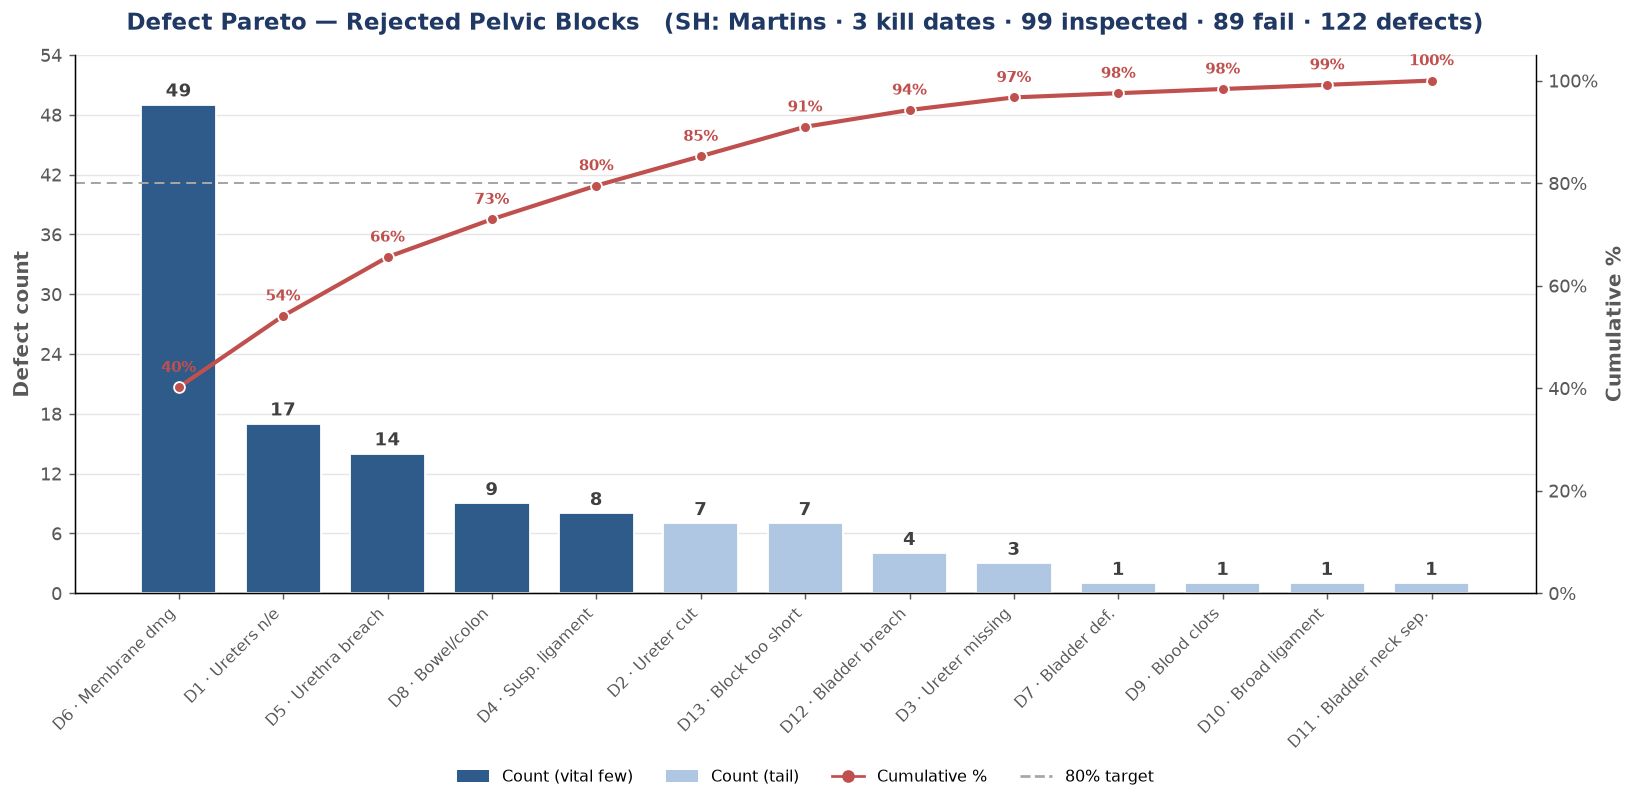
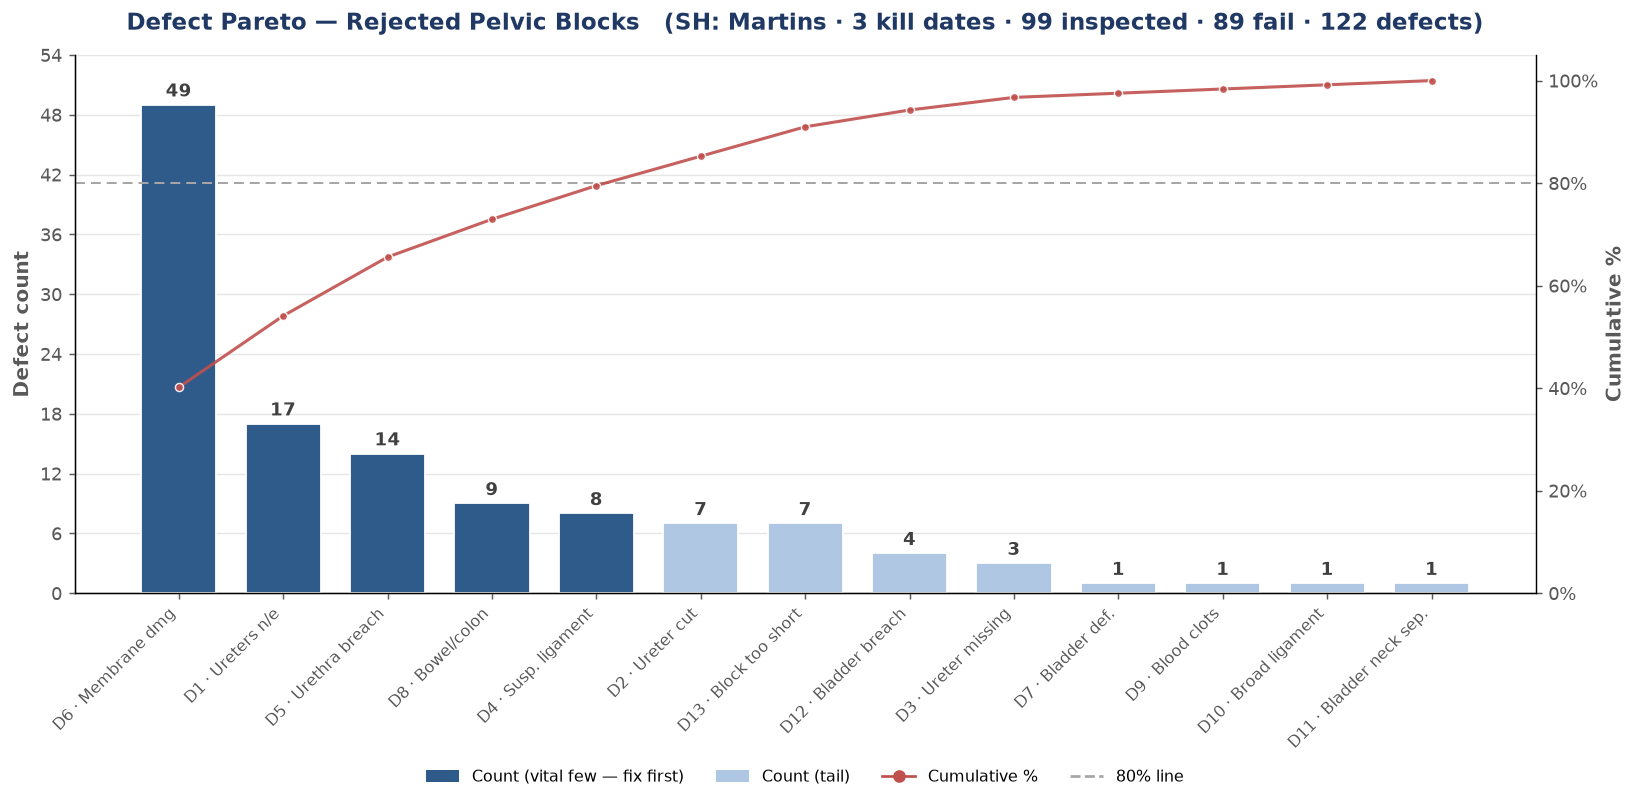
Fix and declutter the Pareto chart
Excel was rendering the data labels as 'Count, D6 · Membrane dmg, 49'
because only showVal was set; explicitly disable series/category/legend
name flags so bars show value only. Remove the per-point labels from the
cumulative line (the exact %s are already in the Pareto table) and thin
the line so it reads as a subtle reference rather than clutter.

Claude-Session: https://claude.ai/code/session_01MzhegtSCJ2gUncrSCG1F8E

diff --git a/pelvic-block-iqc-pareto/build_workbook.py b/pelvic-block-iqc-pareto/build_workbook.py
@@ -512,6 +512,18 @@ def _title(text, size=1200, color=NAVY):
     cp = CharacterProperties(latin=DrawFont(typeface="Calibri"), sz=size, b=True, solidFill=color)
     rt = RichText(p=[Paragraph(pPr=ParagraphProperties(defRPr=cp), r=[RegularTextRun(rPr=cp, t=text)])])
     t = Title(tx=Text(rich=rt)); t.overlay = False; return t
+def _vals_only(num_fmt, size, color, position, bold=True):
+    """Data labels that show ONLY the value (Excel otherwise adds series + category names)."""
+    dl = DataLabelList()
+    dl.showVal = True; dl.showSerName = False; dl.showCatName = False
+    dl.showLegendKey = False; dl.showPercent = False; dl.showBubbleSize = False
+    dl.numFmt = num_fmt; dl.position = position; dl.txPr = _txpr(size, color, bold=bold)
+    return dl
+def _no_labels():
+    dl = DataLabelList()
+    dl.showVal = False; dl.showSerName = False; dl.showCatName = False
+    dl.showLegendKey = False; dl.showPercent = False; dl.showBubbleSize = False
+    return dl
 
 SHORT = {"D6":"Membrane dmg","D1":"Ureters n/e","D5":"Urethra breach","D4":"Susp. ligament",
          "D8":"Bowel/colon","D2":"Ureter cut","D3":"Ureter missing","D7":"Bladder def.",
@@ -534,8 +546,7 @@ for i in range(n):
     dp.spPr = GraphicalProperties(solidFill=(C_VITAL if i < nfew else C_TAIL),
                                   ln=LineProperties(solidFill="FFFFFF", w=9525))
     bs.data_points.append(dp)
-bdl = DataLabelList(); bdl.showVal = True; bdl.numFmt = "0"; bdl.position = "outEnd"
-bdl.txPr = _txpr(950, "404040", bold=True); bs.dLbls = bdl
+bs.dLbls = _vals_only("0", 1000, "404040", "outEnd")
 bar.y_axis.title = "Defect count"; bar.y_axis.number_format = "0"; bar.y_axis.scaling.min = 0
 bar.y_axis.majorGridlines = ChartLines(spPr=GraphicalProperties(ln=LineProperties(solidFill=C_GRID, w=6350)))
 bar.y_axis.txPr = _txpr(); bar.y_axis.delete = False
@@ -546,16 +557,16 @@ bar.x_axis.spPr = GraphicalProperties(ln=LineProperties(solidFill="BFBFBF", w=95
 line = LineChart()
 line.add_data(Reference(par, min_col=6, min_row=first - 1, max_row=last), titles_from_data=True)
 line.add_data(Reference(par, min_col=THR_COL, min_row=ph, max_row=last), titles_from_data=True)
-cs = line.series[0]
-cs.graphicalProperties = GraphicalProperties(ln=LineProperties(solidFill=C_LINE, w=28575))
-cs.marker = Marker(symbol="circle", size=6)
+cs = line.series[0]                                  # cumulative % — subtle reference, NO point labels
+cs.graphicalProperties = GraphicalProperties(ln=LineProperties(solidFill=C_LINE, w=19050))
+cs.marker = Marker(symbol="circle", size=5)
 cs.marker.spPr = GraphicalProperties(solidFill=C_LINE, ln=LineProperties(solidFill="FFFFFF", w=9525))
 cs.smooth = False
-cdl = DataLabelList(); cdl.showVal = True; cdl.numFmt = "0%"; cdl.position = "t"
-cdl.txPr = _txpr(850, C_LINE, bold=True); cs.dLbls = cdl
+cs.dLbls = _no_labels()                              # declutter: exact %s live in the Pareto table, not on the line
 ts = line.series[1]
 _lp = LineProperties(solidFill="A6A6A6", w=9525); _lp.prstDash = "dash"
 ts.graphicalProperties = GraphicalProperties(ln=_lp); ts.marker = Marker(symbol="none"); ts.smooth = False
+ts.dLbls = _no_labels()
 line.y_axis.axId = 200; line.y_axis.title = "Cumulative %"; line.y_axis.crosses = "max"
 line.y_axis.scaling.min = 0; line.y_axis.scaling.max = 1; line.y_axis.number_format = "0%"
 line.y_axis.majorGridlines = None; line.y_axis.txPr = _txpr(); line.y_axis.delete = False

diff --git a/pelvic-block-iqc-pareto/make_previews.py b/pelvic-block-iqc-pareto/make_previews.py
@@ -35,16 +35,15 @@ for s in ("top","right"): ax.spines[s].set_visible(False)
 ax.spines["left"].set_color("#BFBFBF"); ax.spines["bottom"].set_color("#BFBFBF")
 
 ax2=ax.twinx()
-ax2.plot(range(len(counts)),cum,color=C_LINE,marker="o",ms=6,lw=2.3,zorder=4,mec="white",mew=1)
+# cumulative line = subtle reference (no per-point labels); exact %s live in the Pareto table
+ax2.plot(range(len(counts)),cum,color=C_LINE,marker="o",ms=4.5,lw=1.7,zorder=4,mec="white",mew=0.8,alpha=0.9)
 ax2.axhline(80,color="#A6A6A6",ls=(0,(5,3)),lw=1.1,zorder=2)
 ax2.yaxis.set_major_formatter(PercentFormatter()); ax2.set_ylim(0,105); ax2.set_yticks(range(0,101,20))
 ax2.set_ylabel("Cumulative %",fontsize=11,fontweight="bold",color=C_AX); ax2.tick_params(colors=C_AX)
 ax2.spines["top"].set_visible(False)
-for x,y in zip(range(len(counts)),cum):
-    ax2.text(x,y+3,f"{y:.0f}%",ha="center",fontsize=8.5,fontweight="bold",color=C_LINE)
-leg=[Patch(facecolor=C_VITAL,label="Count (vital few)"),Patch(facecolor=C_TAIL,label="Count (tail)"),
+leg=[Patch(facecolor=C_VITAL,label="Count (vital few — fix first)"),Patch(facecolor=C_TAIL,label="Count (tail)"),
      Line2D([0],[0],color=C_LINE,marker="o",label="Cumulative %"),
-     Line2D([0],[0],color="#A6A6A6",ls="--",label="80% target")]
+     Line2D([0],[0],color="#A6A6A6",ls="--",label="80% line")]
 ax.legend(handles=leg,loc="upper center",bbox_to_anchor=(0.5,-0.30),ncol=4,frameon=False,fontsize=9)
 ax.set_title("Defect Pareto — Rejected Pelvic Blocks   (SH: Martins · 3 kill dates · 99 inspected · 89 fail · 122 defects)",
              fontsize=12.5,fontweight="bold",color=C_TITLE,pad=14)
